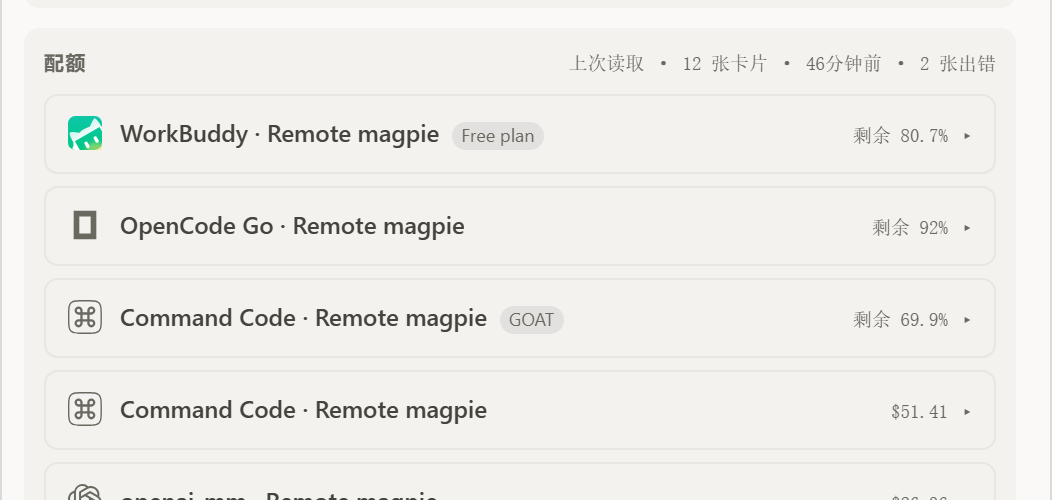
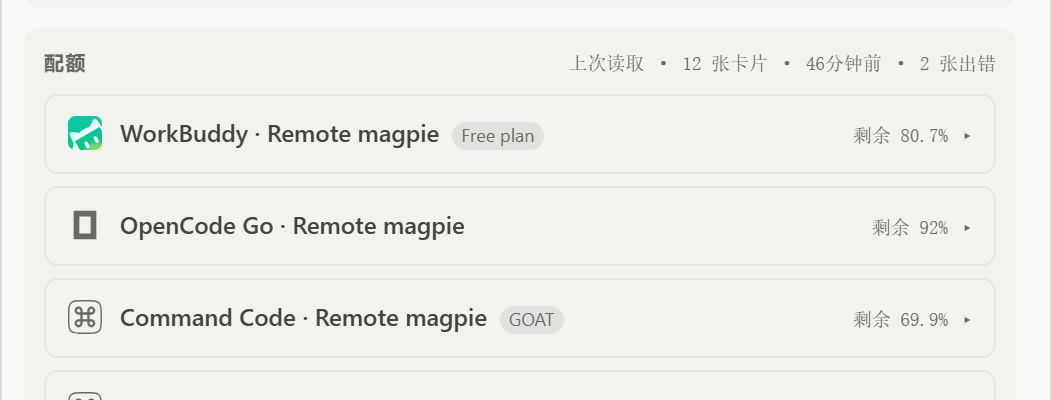
docs: anonymize custom OpenAI-compatible endpoint

diff --git a/README.md b/README.md
@@ -142,9 +142,9 @@ Within a pool, layered model names ending in `(High)`, `(Low)`, or `(Medium)` ar
 </tr>
 </table>
 
-<img src="docs/images/quota-collapsed-openchamber.png" alt="OpenChamber quota list with every card collapsed, showing handles, names, plan labels, remaining percentages, and balances" width="860">
+<img src="docs/images/quota-collapsed-openchamber.png" alt="OpenChamber quota list with every card collapsed, showing handles, names (one redacted), plan labels, remaining percentages, and balances" width="860">
 
-<p><sub>All cards collapsed. The provider marks stay visible as drag handles; the chevron expands a card. Error cards are not in this crop because they never collapse.</sub></p>
+<p><sub>All cards collapsed. The provider marks stay visible as drag handles; the chevron expands a card. One provider name is redacted. Error cards are not in this crop because they never collapse.</sub></p>
 
 ### Balance cards
 
@@ -163,12 +163,12 @@ Balance cards split the upstream ` · `-joined string into label/value rows: the
 
 <table>
 <tr>
-<td width="50%"><img src="docs/images/balance-openai-mm-openchamber.png" alt="OpenChamber openai-mm balance card with balance, used amount, remaining percentage, daily spend, mode, and request counters" width="420"></td>
-<td width="50%"><img src="docs/images/balance-openai-mm-magpie.png" alt="Magpie desktop openai-mm balance card with balance, used amount, remaining percentage, daily spend, mode, and request counters" width="420"></td>
+<td width="50%"><img src="docs/images/balance-openai-compatible-openchamber.png" alt="OpenChamber balance card for a custom OpenAI-compatible endpoint, provider name redacted, showing balance, used amount, remaining percentage, daily spend, mode, and request counters" width="420"></td>
+<td width="50%"><img src="docs/images/balance-openai-compatible-magpie.png" alt="Magpie desktop balance card for the same custom OpenAI-compatible endpoint, provider name redacted, showing balance, used amount, remaining percentage, daily spend, mode, and request counters" width="420"></td>
 </tr>
 <tr>
-<td><sub><b>OpenChamber</b>: the upstream string becomes separate label/value rows. This read is $26.36.</sub></td>
-<td><sub><b>magpie desktop</b>: the same fields at $25.11. The reads are not simultaneous; this pair compares the layout, not the cents.</sub></td>
+<td><sub><b>OpenChamber</b>: a custom OpenAI-compatible endpoint; the provider name is redacted. The upstream string becomes separate label/value rows. This read is $26.36.</sub></td>
+<td><sub><b>magpie desktop</b>: the same endpoint at $25.11, also with the provider name redacted. The reads are not simultaneous; this pair compares the layout, not the cents.</sub></td>
 </tr>
 </table>
 
@@ -358,7 +358,7 @@ Verified on 2026-11-01:
 - `git diff --exit-code -- panel/main.js service/main.js` exited 0 after the check.
 - Screenshots: 24 images across all 8 groups, in `docs/images/`. OpenChamber and magpie desktop are side by side for usage (today/7d/30d), the 7-day trend, pooled quota cards, balance cards, and configuration/language. Account e-mails, the API-key fragment, and the absolute config path were removed with solid fills or excluded from the crop.
 - Real gateway: 12 cards rendered with no script errors. Antigravity folded into three pool rows (Claude & GPT, Gemini, Gemini 4 Argon) with all nine `(High)/(Low)/(Medium)` layers hidden; windows sorted 5 hours → 7 days.
-- `openai-mm`'s balance string split into 14 label/value rows; the single-segment `¥21.08` stayed whole; `unlimited`, the four balance cards, and the two error cards rendered correctly; no money row showed `NaN`.
+- The custom OpenAI-compatible endpoint's balance string split into 14 label/value rows; the single-segment `¥21.08` stayed whole; `unlimited`, the four balance cards, and the two error cards rendered correctly; no money row showed `NaN`.
 - Container query: at about 340px card width, `grid-template-columns` was `154px 154px`; at 240px it became a single `220px` column.
 - Dragging the first card to third position wrote `cardOrder` while preserving `baseUrl`; reopening the panel kept the order. Keyboard `End` moved a card and `aria-live` announced "moved to position 12 of 12".
 - Writing invalid JSON into `config.json` and then dragging a card copied the original byte-for-byte to `config.json.bak` and rewrote a valid file containing only `cardOrder` (two-space indent, trailing newline). Configuration reported `config.json was invalid; saved as … and reset`.

diff --git a/README.zh-CN.md b/README.zh-CN.md
@@ -142,9 +142,9 @@ OpenChamber 右侧栏扩展，用于查看 Magpie 的用量汇总、趋势，以
 </tr>
 </table>
 
-<img src="docs/images/quota-collapsed-openchamber.png" alt="OpenChamber 额度列表全部折叠：厂商标识、卡名、套餐标签、剩余百分比与余额" width="860">
+<img src="docs/images/quota-collapsed-openchamber.png" alt="OpenChamber 额度列表全部折叠：厂商标识、卡名（其中一处已遮盖）、套餐标签、剩余百分比与余额" width="860">
 
-<p><sub>全部卡片折叠。厂商标识仍作为拖拽手柄显示；点箭头可重新展开。错误卡不在这张裁图里，因为它们从不折叠。</sub></p>
+<p><sub>全部卡片折叠。厂商标识仍作为拖拽手柄显示；点箭头可重新展开。其中一处供应商名称已遮盖。错误卡不在这张裁图里，因为它们从不折叠。</sub></p>
 
 ### 余额卡
 
@@ -163,12 +163,12 @@ OpenChamber 右侧栏扩展，用于查看 Magpie 的用量汇总、趋势，以
 
 <table>
 <tr>
-<td width="50%"><img src="docs/images/balance-openai-mm-openchamber.png" alt="OpenChamber openai-mm 余额卡：余额、已用额度、剩余百分比、今日花费、配额模式与请求计数" width="420"></td>
-<td width="50%"><img src="docs/images/balance-openai-mm-magpie.png" alt="magpie 桌面端 openai-mm 余额卡：余额、已用额度、剩余百分比、今日花费、配额模式与请求计数" width="420"></td>
+<td width="50%"><img src="docs/images/balance-openai-compatible-openchamber.png" alt="OpenChamber 自定义 OpenAI 兼容端点余额卡，供应商名称已遮盖：余额、已用额度、剩余百分比、今日花费、配额模式与请求计数" width="420"></td>
+<td width="50%"><img src="docs/images/balance-openai-compatible-magpie.png" alt="magpie 桌面端同一自定义 OpenAI 兼容端点余额卡，供应商名称已遮盖：余额、已用额度、剩余百分比、今日花费、配额模式与请求计数" width="420"></td>
 </tr>
 <tr>
-<td><sub><b>OpenChamber</b>：上游字符串拆成独立的标签/数值行。本次读取为 $26.36。</sub></td>
-<td><sub><b>magpie 桌面端</b>：同样的字段，数值为 $25.11。两次读取不是同一时刻；这一对比较的是布局，不是分币级数值。</sub></td>
+<td><sub><b>OpenChamber</b>：自定义 OpenAI 兼容端点；供应商名称已遮盖。上游字符串拆成独立的标签/数值行。本次读取为 $26.36。</sub></td>
+<td><sub><b>magpie 桌面端</b>：同一端点，数值为 $25.11，供应商名称同样已遮盖。两次读取不是同一时刻；这一对比较的是布局，不是分币级数值。</sub></td>
 </tr>
 </table>
 
@@ -357,7 +357,7 @@ CI 运行 `bun install --frozen-lockfile`、`bun run check` 和 `git diff --exit
 - 检查后运行 `git diff --exit-code -- panel/main.js service/main.js`，退出码 0。
 - 截图：`docs/images/` 共 24 张，覆盖全部 8 个功能组。用量（今天/7 天/30 天）、7 天趋势、池化额度卡、余额卡、配置/语言均与 magpie 桌面端并排。账户邮箱、API key 片段、绝对配置路径已用实心色块覆盖或裁出画面。
 - 真实网关：12 张卡全部渲染，无脚本错误。Antigravity 折成 3 个 pool 行（Claude & GPT、Gemini、Gemini 4 Argon），9 个 `(High)/(Low)/(Medium)` 分层全部隐藏；窗口按 5 小时 → 7 天排序。
-- `openai-mm` 的余额串拆成 14 行标签/数值；单段余额 `¥21.08` 整体显示；`unlimited`、4 张余额卡与 2 张错误卡行为正确；所有金额行无 `NaN`。
+- 自定义 OpenAI 兼容端点的余额串拆成 14 行标签/数值；单段余额 `¥21.08` 整体显示；`unlimited`、4 张余额卡与 2 张错误卡行为正确；所有金额行无 `NaN`。
 - 容器查询：卡宽约 340px 时 `grid-template-columns` 为 `154px 154px`；240px 时降为单列 `220px`。
 - 拖拽第一张卡到第三位：`config.json` 写入 `cardOrder`，`baseUrl` 原样保留，重新打开面板顺序不变；键盘 `End` 移动生效，`aria-live` 播报「moved to position 12 of 12」。
 - 手工把 `config.json` 写成非法 JSON 后再拖一张卡：原文逐字复制到 `config.json.bak`，文件被重写为只含 `cardOrder` 的合法 JSON（2 空格缩进、结尾换行），配置卡显示 `config.json was invalid; saved as … and reset`。

diff --git a/CONTRIBUTING.md b/CONTRIBUTING.md
@@ -96,7 +96,7 @@ Screenshots live in `docs/images/` and are referenced by relative path from both
 - Every image needs descriptive alt text naming the app, screen, period, and state.
 - Check every image at 100% after redaction; a single visible character from a secret is a failure.
 
-The README uses 24 images across 8 groups: install, usage (today/7d/30d), trend, quota cards (pooling and collapsed), balance cards (DeepSeek and openai-mm), error cards, ordering, and configuration/language.
+The README uses 24 images across 8 groups: install, usage (today/7d/30d), trend, quota cards (pooling and collapsed), balance cards (DeepSeek and a custom OpenAI-compatible endpoint), error cards, ordering, and configuration/language.
 
 ## Translations
 
